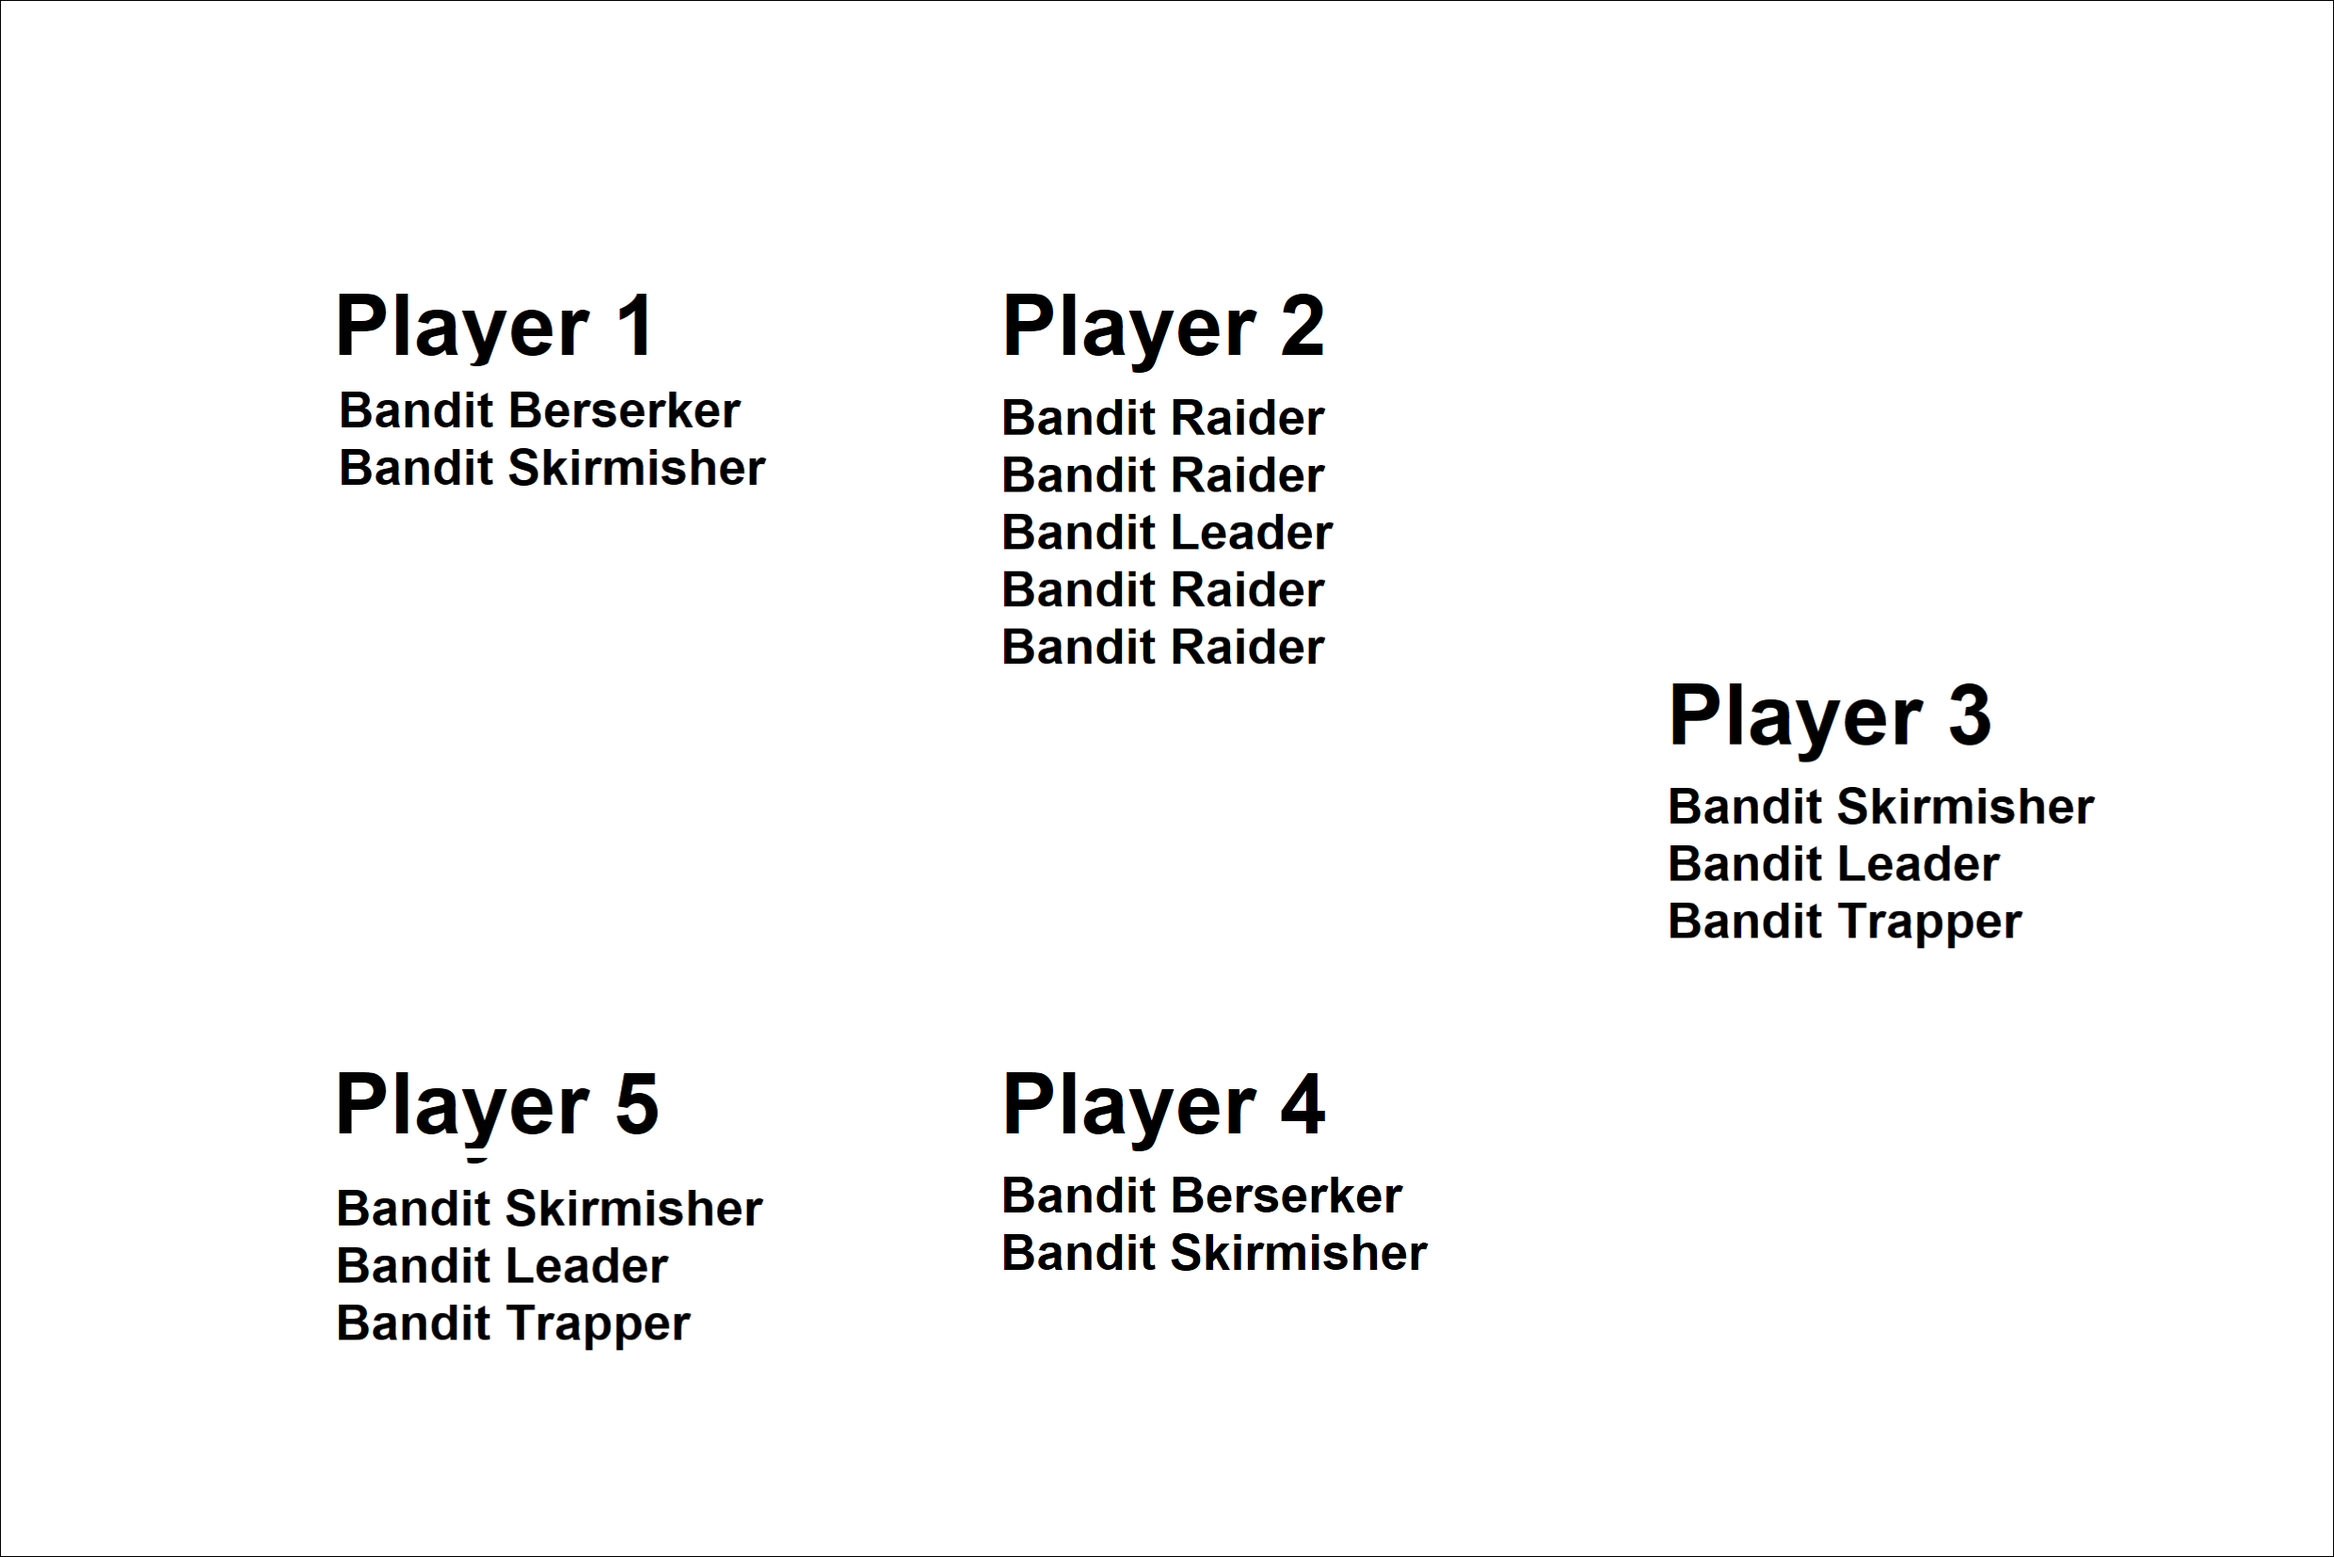
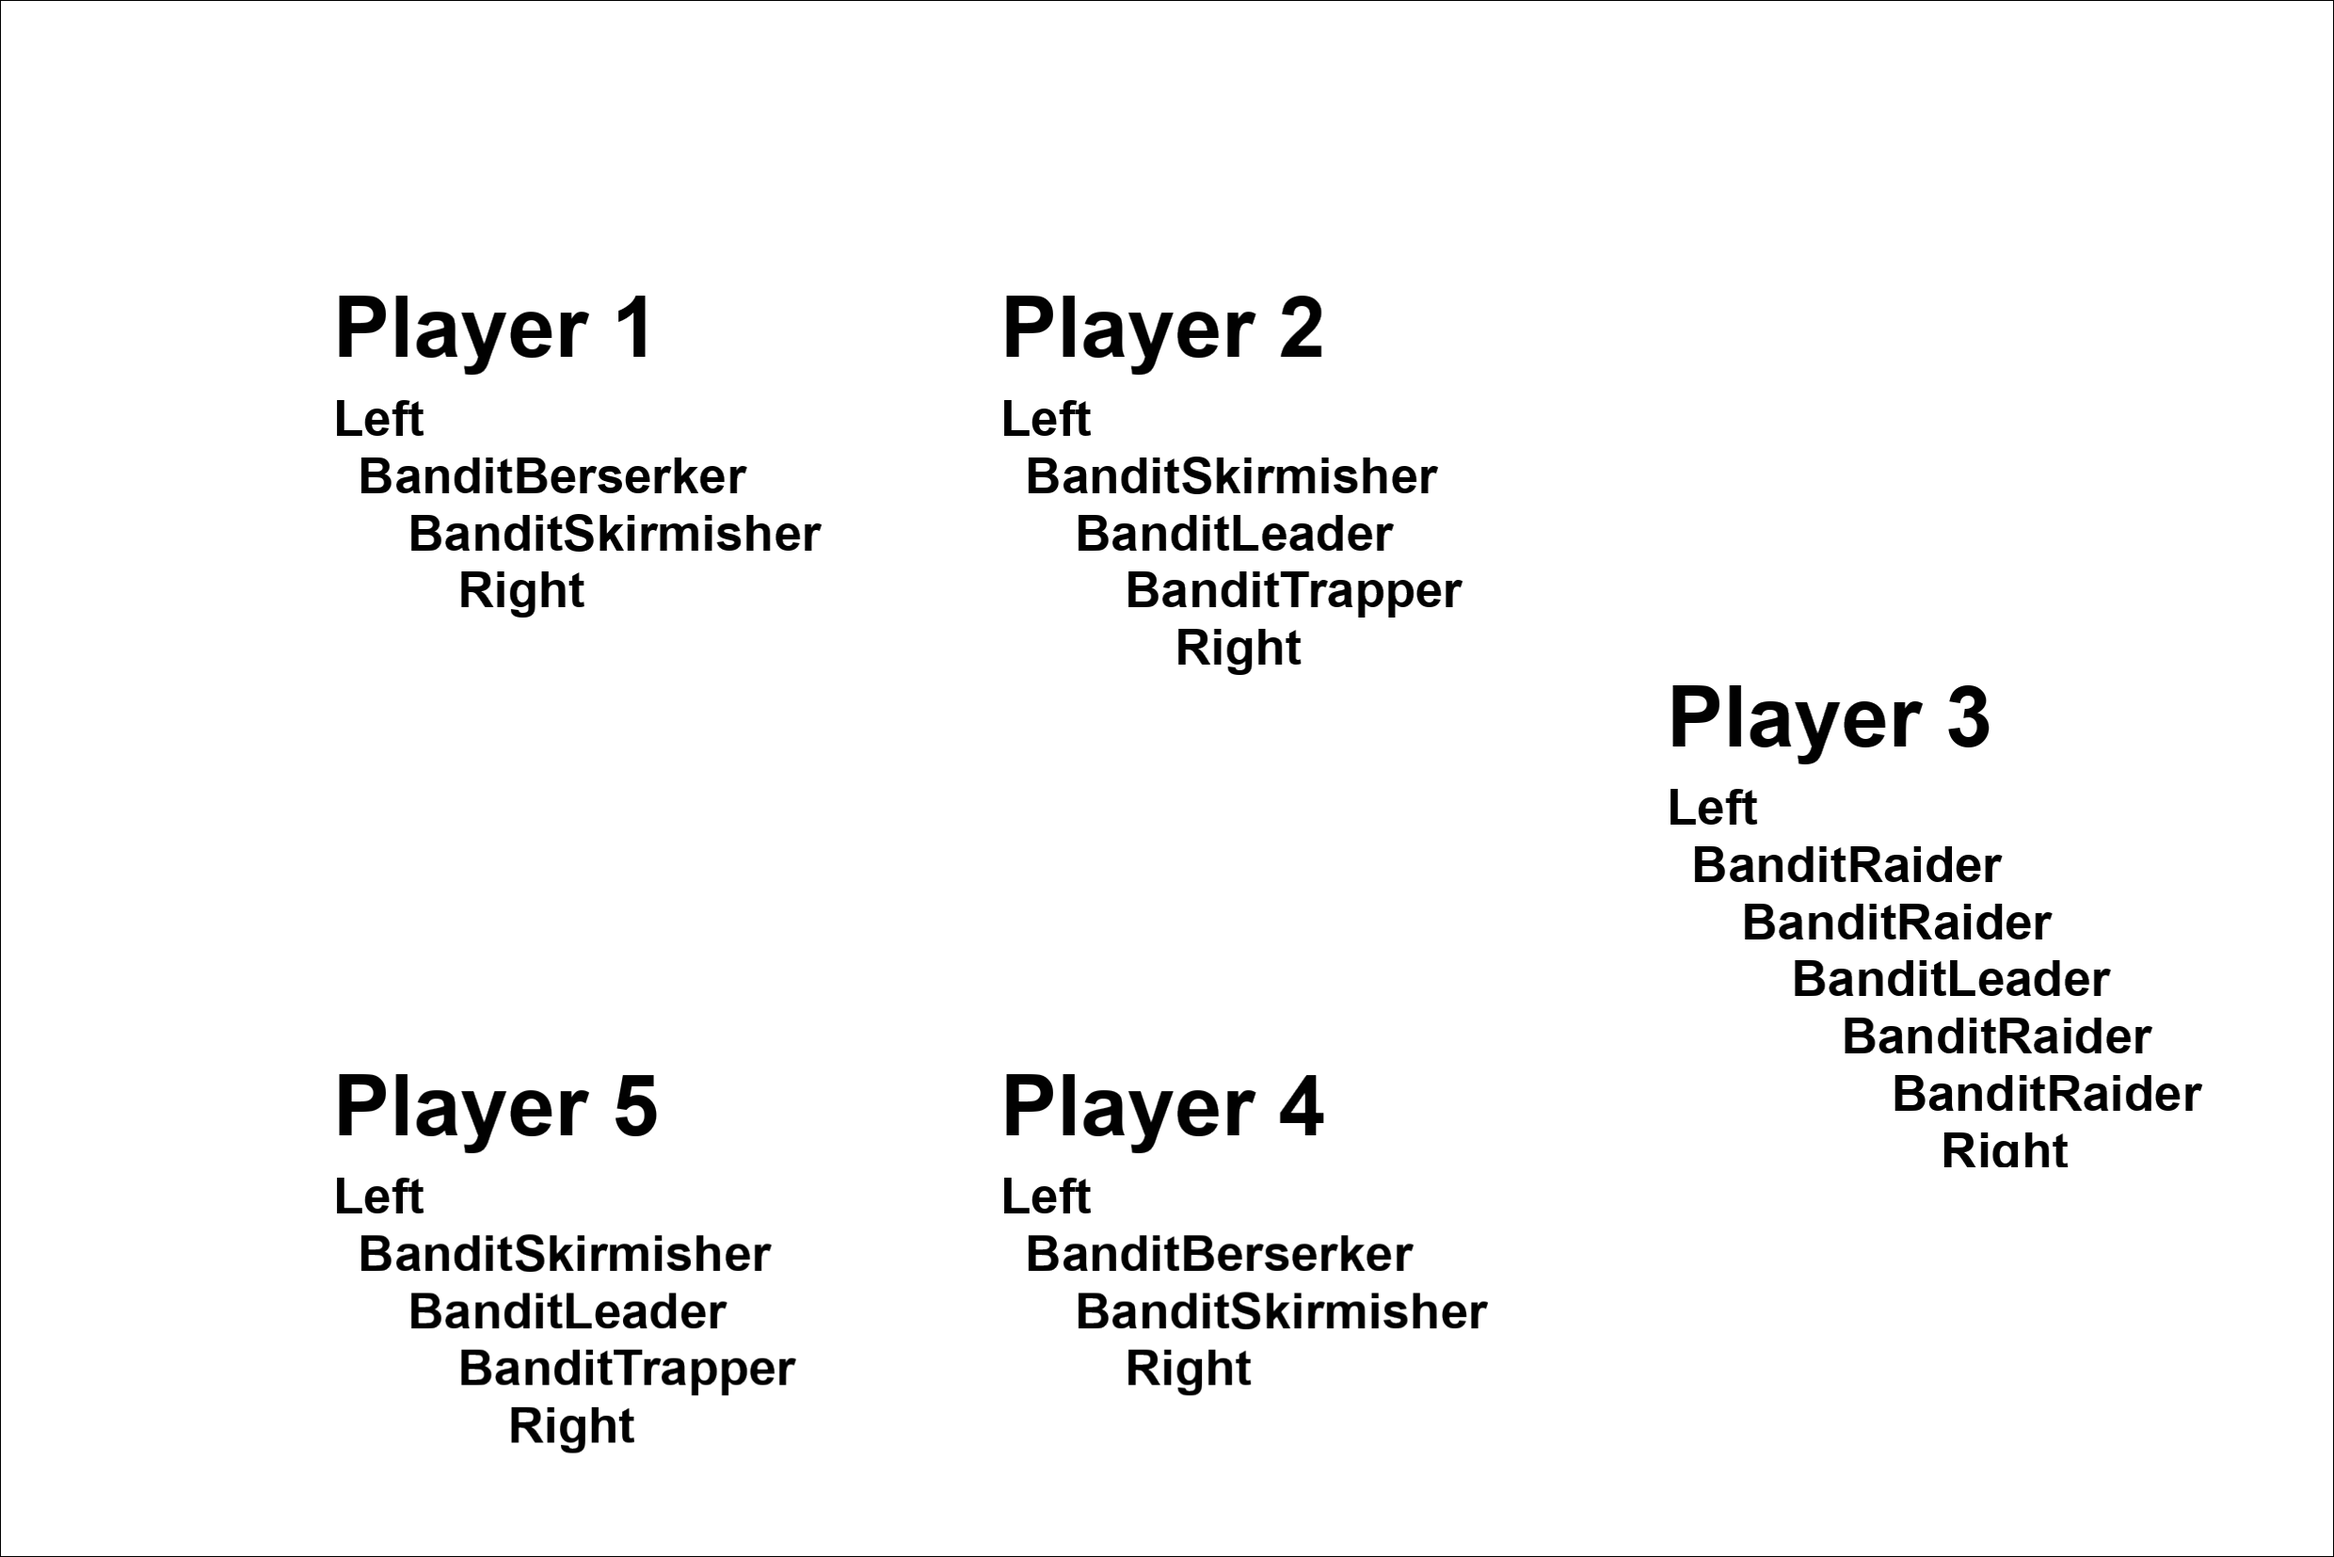
update story 1

diff --git a/ToPdfPipeline/CardDefinitions_WheelOfFate.py b/ToPdfPipeline/CardDefinitions_WheelOfFate.py
@@ -1088,7 +1088,7 @@ class EncounterCard:
         self.P4 = ""
         self.P5 = ""
 
-        self.lineups = [self.P1,self.P2,self.P3,self.P4,self.P5]
+        
 
     def serializeToNandeck(self, order):
         
@@ -1096,11 +1096,23 @@ class EncounterCard:
         template_story_single = open('Templates/Story_Single.txt', 'r')
         template_story_single = template_story_single.read()
 
+        lineups = [self.P1,self.P2,self.P3,self.P4,self.P5]
+        lineups_new: list[str] = []
+
+        for lineup in lineups:
+            lineup = "Left, " + lineup + " Right"
+            res = ""
+            einruck = 1
+            for word in lineup.split(" "):
+                res += word.replace(",", "," + ("&ensp;" * einruck)) # add progressively more space
+                einruck += 1 #stepsize
+            lineups_new.append(res)
+
         res = template_story_single.replace(r"${Order}", str(order))
-        res = res.replace(r"${Lineup1}",self.P1.strip().replace(",", linebreakStringNanDeck_htmltext))
-        res = res.replace(r"${Lineup2}",self.P2.strip().replace(",", linebreakStringNanDeck_htmltext))
-        res = res.replace(r"${Lineup3}",self.P3.strip().replace(",", linebreakStringNanDeck_htmltext))
-        res = res.replace(r"${Lineup4}",self.P4.strip().replace(",", linebreakStringNanDeck_htmltext))
-        res = res.replace(r"${Lineup5}",self.P5.strip().replace(",", linebreakStringNanDeck_htmltext))
+        res = res.replace(r"${Lineup1}",lineups_new[0].strip().replace(",", linebreakStringNanDeck_htmltext))
+        res = res.replace(r"${Lineup2}",lineups_new[1].strip().replace(",", linebreakStringNanDeck_htmltext))
+        res = res.replace(r"${Lineup3}",lineups_new[2].strip().replace(",", linebreakStringNanDeck_htmltext))
+        res = res.replace(r"${Lineup4}",lineups_new[3].strip().replace(",", linebreakStringNanDeck_htmltext))
+        res = res.replace(r"${Lineup5}",lineups_new[4].strip().replace(",", linebreakStringNanDeck_htmltext))
             
         return res
